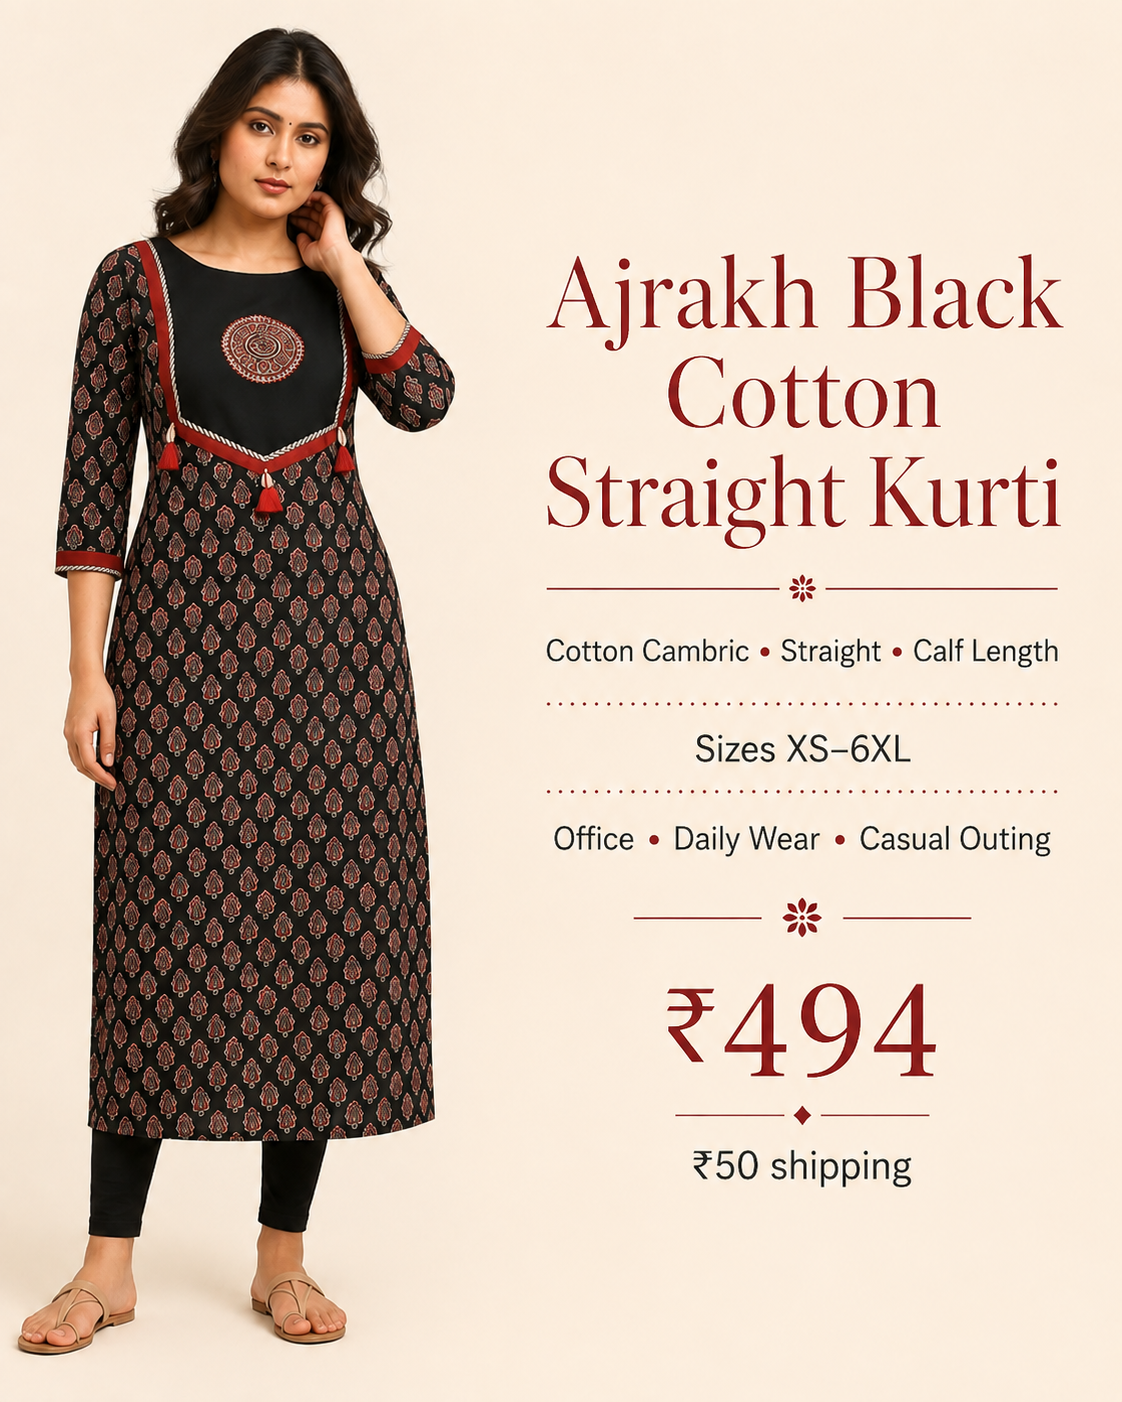
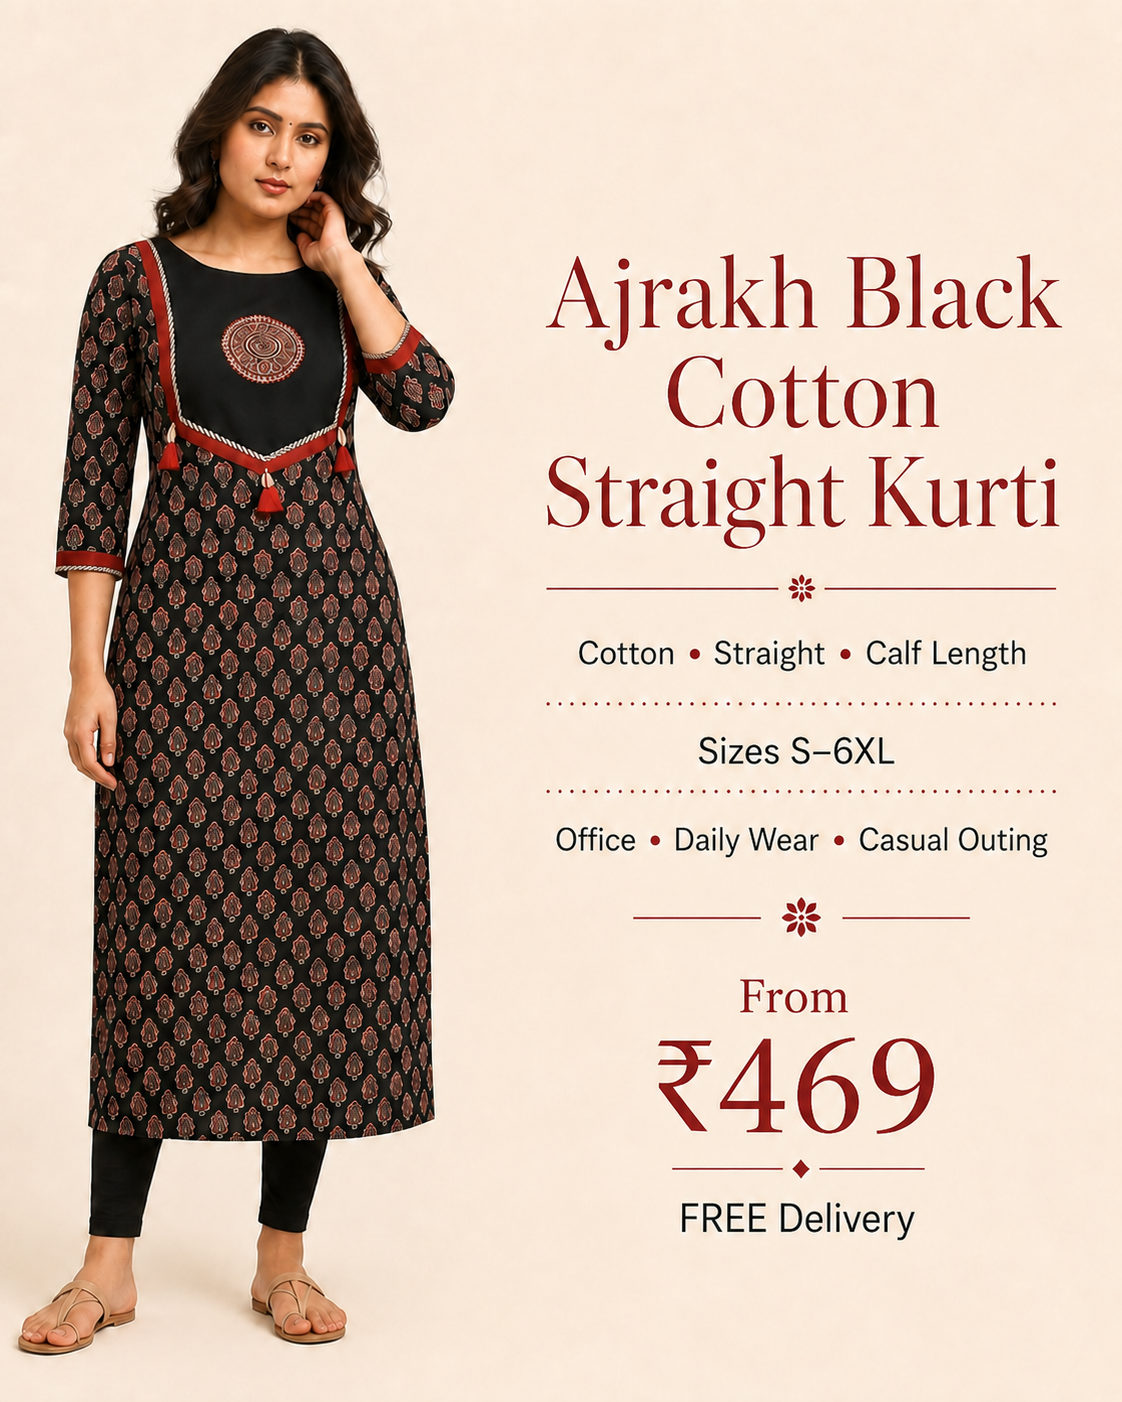
feat: verify and reprice Product 1

diff --git a/lib/products.ts b/lib/products.ts
@@ -3,7 +3,7 @@ export type Product = { id:string; slug:string; name:string; category:"Kurtis"|"
 const names=["catalogue-hero","front-model","occasion-lifestyle","three-quarter-view","fabric-detail","product-info-card"];
 const imageSet=(sku:string)=>names.map((name,index)=>`/images/${sku}/0${index+1}-${name}.png`);
 export const products:Product[]=[
-{id:"MSH-ETH-001",slug:"ajrakh-black-cotton-straight-kurti",name:"Ajrakh Black Cotton Straight Kurti",category:"Kurtis",collection:"Everyday Ethnic",occasion:"Daily wear",sellingPrice:694,images:imageSet("MSH-ETH-001"),sizes:["XS","S","M","L","XL","XXL","3XL","4XL","5XL","6XL"],material:"Cotton Cambric",colour:"Black",description:"Ajrakh-inspired motifs with a comfortable straight silhouette for workdays and everyday outings.",featured:true,bestSeller:true},
+{id:"MSH-ETH-001",slug:"ajrakh-black-cotton-straight-kurti",name:"Ajrakh Black Cotton Straight Kurti",category:"Kurtis",collection:"Everyday Ethnic",occasion:"Daily wear / office",sellingPrice:469,images:imageSet("MSH-ETH-001"),sizes:["S","M","L","XL","XXL","XXXL","4XL","5XL","6XL"],variants:[{sku:"MSH-ETH-001-S",size:"S",colour:"Black with red ethnic motifs",price:469,available:true},{sku:"MSH-ETH-001-M",size:"M",colour:"Black with red ethnic motifs",price:478,available:true},{sku:"MSH-ETH-001-L",size:"L",colour:"Black with red ethnic motifs",price:487,available:true},{sku:"MSH-ETH-001-XL",size:"XL",colour:"Black with red ethnic motifs",price:502,available:true},{sku:"MSH-ETH-001-XXL",size:"XXL",colour:"Black with red ethnic motifs",price:502,available:true},{sku:"MSH-ETH-001-XXXL",size:"XXXL",colour:"Black with red ethnic motifs",price:502,available:true},{sku:"MSH-ETH-001-4XL",size:"4XL",colour:"Black with red ethnic motifs",price:502,available:true},{sku:"MSH-ETH-001-5XL",size:"5XL",colour:"Black with red ethnic motifs",price:502,available:true},{sku:"MSH-ETH-001-6XL",size:"6XL",colour:"Black with red ethnic motifs",price:502,available:true}],material:"Cotton",colour:"Black with red ethnic motifs",description:"A black cotton straight kurti with red Ajrakh-inspired motifs, a medallion yoke and decorative tassels for office and everyday wear.",featured:true,bestSeller:true},
 {id:"MSH-ETH-002",slug:"teal-art-silk-embroidered-a-line-kurta",name:"Teal Art-Silk Embroidered A-Line Kurta",category:"Kurtis",collection:"Festive Ethnic",occasion:"Festive wear",sellingPrice:609,images:imageSet("MSH-ETH-002"),sizes:["XXS","XS","S","M","L","XL","XXL","3XL","4XL"],material:"Art Silk",colour:"Teal",description:"A jewel-toned A-line kurta with embroidered neckline detailing for festive moments.",newArrival:true},
 {id:"MSH-SET-003",slug:"peach-printed-kurta-palazzo-set",name:"Peach Printed Kurta Palazzo Set",category:"Kurta Sets",collection:"Everyday Sets",occasion:"Casual outing",sellingPrice:675,images:imageSet("MSH-SET-003"),sizes:["XXS","XS","S","M","L","XL","XXL","3XL","4XL","5XL"],material:"Rayon",colour:"Peach",description:"An easy rayon kurta-and-palazzo pairing with a soft peach print.",newArrival:true},
 {id:"MSH-SET-004",slug:"purple-aliya-cut-three-piece-set",name:"Purple Aliya-Cut Three-Piece Set",category:"Kurta Sets",collection:"Festive Sets",occasion:"Wedding guest",sellingPrice:816,images:imageSet("MSH-SET-004"),sizes:["XS","S","M","L","XL","XXL","3XL","4XL","5XL"],material:"Rayon",colour:"Purple",description:"A flowing three-piece ensemble with coordinated pants and dupatta.",featured:true},

diff --git a/lib/internal-pricing.server.ts b/lib/internal-pricing.server.ts
@@ -1,4 +1,30 @@
 import "server-only";
 import { calculateSellingPrice } from "@/lib/commerce/pricing";
-export const sourceCostsBySku:Record<string,number>={"MSH-ETH-001":494,"MSH-ETH-002":409,"MSH-SET-003":475,"MSH-SET-004":616,"MSH-GWN-005":632,"MSH-GWN-006":490,"MSH-WES-007":667,"MSH-WES-008":479,"MSH-WES-009":558,"MSH-WES-010":637,"MSH-EXP-011":485,"MSH-EXP-012":588,"MSH-EXP-013":526,"MSH-EXP-014":679,"MSH-EXP-016-XS":480,"MSH-EXP-016-S":490,"MSH-EXP-016-M":490,"MSH-EXP-016-L":490,"MSH-EXP-016-XL":490,"MSH-EXP-016-XXL":490,"MSH-EXP-016-XXXL":490,"MSH-EXP-017-S":388,"MSH-EXP-017-M":368,"MSH-EXP-017-L":388,"MSH-EXP-017-XL":388,"MSH-EXP-017-XXL":388,"MSH-EXP-018-S":351,"MSH-EXP-018-M":351,"MSH-EXP-018-L":351,"MSH-EXP-018-XL":351,"MSH-EXP-018-XXL":351,"MSH-EXP-019-S":450,"MSH-EXP-019-M":450,"MSH-EXP-019-L":450,"MSH-EXP-019-XL":450,"MSH-EXP-019-XXL":450,"MSH-EXP-020-S":482,"MSH-EXP-020-M":482,"MSH-EXP-020-L":482,"MSH-EXP-020-XL":482,"MSH-EXP-020-XXL":482,"MSH-EXP-020-XXXL":482};
-export const sellingPriceFor=(sku:string)=>{const exact=sourceCostsBySku[sku];if(exact!==undefined)return calculateSellingPrice(exact);const base=Object.keys(sourceCostsBySku).find(candidate=>sku.startsWith(`${candidate}-`));if(!base)throw new Error("Invalid source cost");return calculateSellingPrice(sourceCostsBySku[base])};
+
+export const sourceCostsBySku: Record<string, number> = {
+  "MSH-ETH-001-S": 269, "MSH-ETH-001-M": 278, "MSH-ETH-001-L": 287,
+  "MSH-ETH-001-XL": 302, "MSH-ETH-001-XXL": 302, "MSH-ETH-001-XXXL": 302,
+  "MSH-ETH-001-4XL": 302, "MSH-ETH-001-5XL": 302, "MSH-ETH-001-6XL": 302,
+  "MSH-ETH-002": 409, "MSH-SET-003": 475, "MSH-SET-004": 616,
+  "MSH-GWN-005": 632, "MSH-GWN-006": 490, "MSH-WES-007": 667,
+  "MSH-WES-008": 479, "MSH-WES-009": 558, "MSH-WES-010": 637,
+  "MSH-EXP-011": 485, "MSH-EXP-012": 588, "MSH-EXP-013": 526, "MSH-EXP-014": 679,
+  "MSH-EXP-016-XS": 480, "MSH-EXP-016-S": 490, "MSH-EXP-016-M": 490,
+  "MSH-EXP-016-L": 490, "MSH-EXP-016-XL": 490, "MSH-EXP-016-XXL": 490, "MSH-EXP-016-XXXL": 490,
+  "MSH-EXP-017-S": 388, "MSH-EXP-017-M": 368, "MSH-EXP-017-L": 388,
+  "MSH-EXP-017-XL": 388, "MSH-EXP-017-XXL": 388,
+  "MSH-EXP-018-S": 351, "MSH-EXP-018-M": 351, "MSH-EXP-018-L": 351,
+  "MSH-EXP-018-XL": 351, "MSH-EXP-018-XXL": 351,
+  "MSH-EXP-019-S": 450, "MSH-EXP-019-M": 450, "MSH-EXP-019-L": 450,
+  "MSH-EXP-019-XL": 450, "MSH-EXP-019-XXL": 450,
+  "MSH-EXP-020-S": 482, "MSH-EXP-020-M": 482, "MSH-EXP-020-L": 482,
+  "MSH-EXP-020-XL": 482, "MSH-EXP-020-XXL": 482, "MSH-EXP-020-XXXL": 482,
+};
+
+export const sellingPriceFor = (sku: string) => {
+  const exact = sourceCostsBySku[sku];
+  if (exact !== undefined) return calculateSellingPrice(exact);
+  const base = Object.keys(sourceCostsBySku).find((candidate) => sku.startsWith(`${candidate}-`));
+  if (!base) throw new Error("Invalid source cost");
+  return calculateSellingPrice(sourceCostsBySku[base]);
+};

diff --git a/docs/meesho-project-state.md b/docs/meesho-project-state.md
@@ -7,14 +7,15 @@ Audit commit: `17500c5e067560d16a205f513c6e99b7faa5d503`
 ## What exists
 
 - A working Next.js/Vinext storefront with product listing, product detail, cart, COD checkout, Stripe checkout scaffolding, free-shipping logic, and Supabase commerce migrations.
-- Fourteen sellable legacy catalogue products plus five locally approved, source-verified replacements (Products 16–20) after the Product 15 safety correction. All fourteen legacy records remain explicitly flagged for source-verification backfill.
+- Fourteen sellable legacy catalogue products plus five locally approved, source-verified replacements (Products 16–20) after the Product 15 safety correction. Product 1 is now source-verified; the remaining thirteen legacy records require verification backfill.
 - Six separate local image assets for MSH-EXP-011 through MSH-EXP-015. The old combined catalogue boards are no longer referenced.
 - A Supabase schema whose public catalogue exposes only products with `status='active'`.
 - Asset and commerce tests, plus the new `npm run meesho:validate` commercial-data gate.
 
 ## Verification status
 
-- Products 1–14 exist in the storefront, but their original Meesho URLs and dated source evidence are not present in this repository. Under the new policy they require verification backfill; this audit does not retroactively claim they are verified.
+- Product 1 now has an exact live Meesho source match, complete commercial evidence, corrected S–6XL size-wise pricing, and passed six-image QA. Its corrected storefront deployment still requires live verification before Meta readiness.
+- Products 2–14 exist in the storefront, but their original Meesho URLs and dated source evidence are not present in this repository. Under the new policy they require verification backfill; this audit does not retroactively claim they are verified.
 - MSH-EXP-015 is confirmed by the supplied imagery and owner instruction as **Maroon Rayon Co-ord Set** (maroon kurta and wide-leg pants), not an Anarkali gown.
 - MSH-EXP-015 has no verified source URL, size-wise source price, sizes, seller, stock, rating, returns, or availability. It is therefore a draft and is excluded from the storefront.
 - A focused 2026-08-31 Meesho search found several maroon rayon kurta/pant listings, but none matched the supplied garment across silhouette, wide-leg bottom, V-neck treatment, sleeve details, included pieces, and colour. No candidate was accepted or copied into the canonical record.
@@ -51,8 +52,10 @@ The previous Products 16–20 visual concepts—Emerald Green Embroidered Kurta-
 
 ## Next actions
 
-1. Find Product 15’s exact source listing and verify it against all six supplied images.
-2. Review and apply the approved Products 16–20 Supabase catalogue synchronization without exposing source costs publicly.
+1. Deploy and live-verify Product 1's corrected S–6XL price variants, then mark its Meta rows ready.
+2. Find Product 15’s exact source listing and verify it against all six supplied images.
+3. Continue source-verification backfill for Products 2–14.
+4. Review and apply the approved Products 16–20 Supabase catalogue synchronization without exposing source costs publicly.
 3. Backfill source records for Products 1–14 and downgrade any record that cannot be verified.
 4. Produce six individual source-faithful images only for approved products.
 5. Keep `meesho:validate`, Meta-feed tests, lint, typecheck, tests, production build, and browser QA green.

diff --git a/data/catalogue-changelog.md b/data/catalogue-changelog.md
@@ -1,5 +1,13 @@
 # Catalogue changelog
 
+## 2026-08-31 — Product 1 source backfill verified
+
+- Matched MSH-ETH-001 to the live Meesho listing `/p/89ulhd` by direct source-image comparison. The black/red yoke, circular medallion, contrast trim, four tassels, motif repeat, three-quarter sleeves, and straight silhouette match the stored six-image set.
+- Captured the live seller, ratings/reviews, 7-day returns, availability, and size-wise source costs: S ₹269, M ₹278, L ₹287, and XL–6XL ₹302.
+- Removed unsupported XS and recalculated retail prices as source + ₹200: S ₹469, M ₹478, L ₹487, and XL–6XL ₹502. Shipping remains free.
+- Replaced the stale product-info card that claimed ₹494 and ₹50 shipping with a verified `From ₹469` / `FREE Delivery` card. All six images passed source-match and cross-view QA.
+- Promoted Product 1 to `Approved`; its Meta row remains blocked until the corrected storefront deployment is live-verified.
+
 ## 2026-08-31 — Product 15 source search expanded
 
 - Reconfirmed the stored Product 15 identity from its six-image set: a solid wine/maroon two-piece rayon set with an embellished V-neck, three-quarter sleeves, knee-length A-line kurta, and matching plain wide-leg pants; no dupatta.
